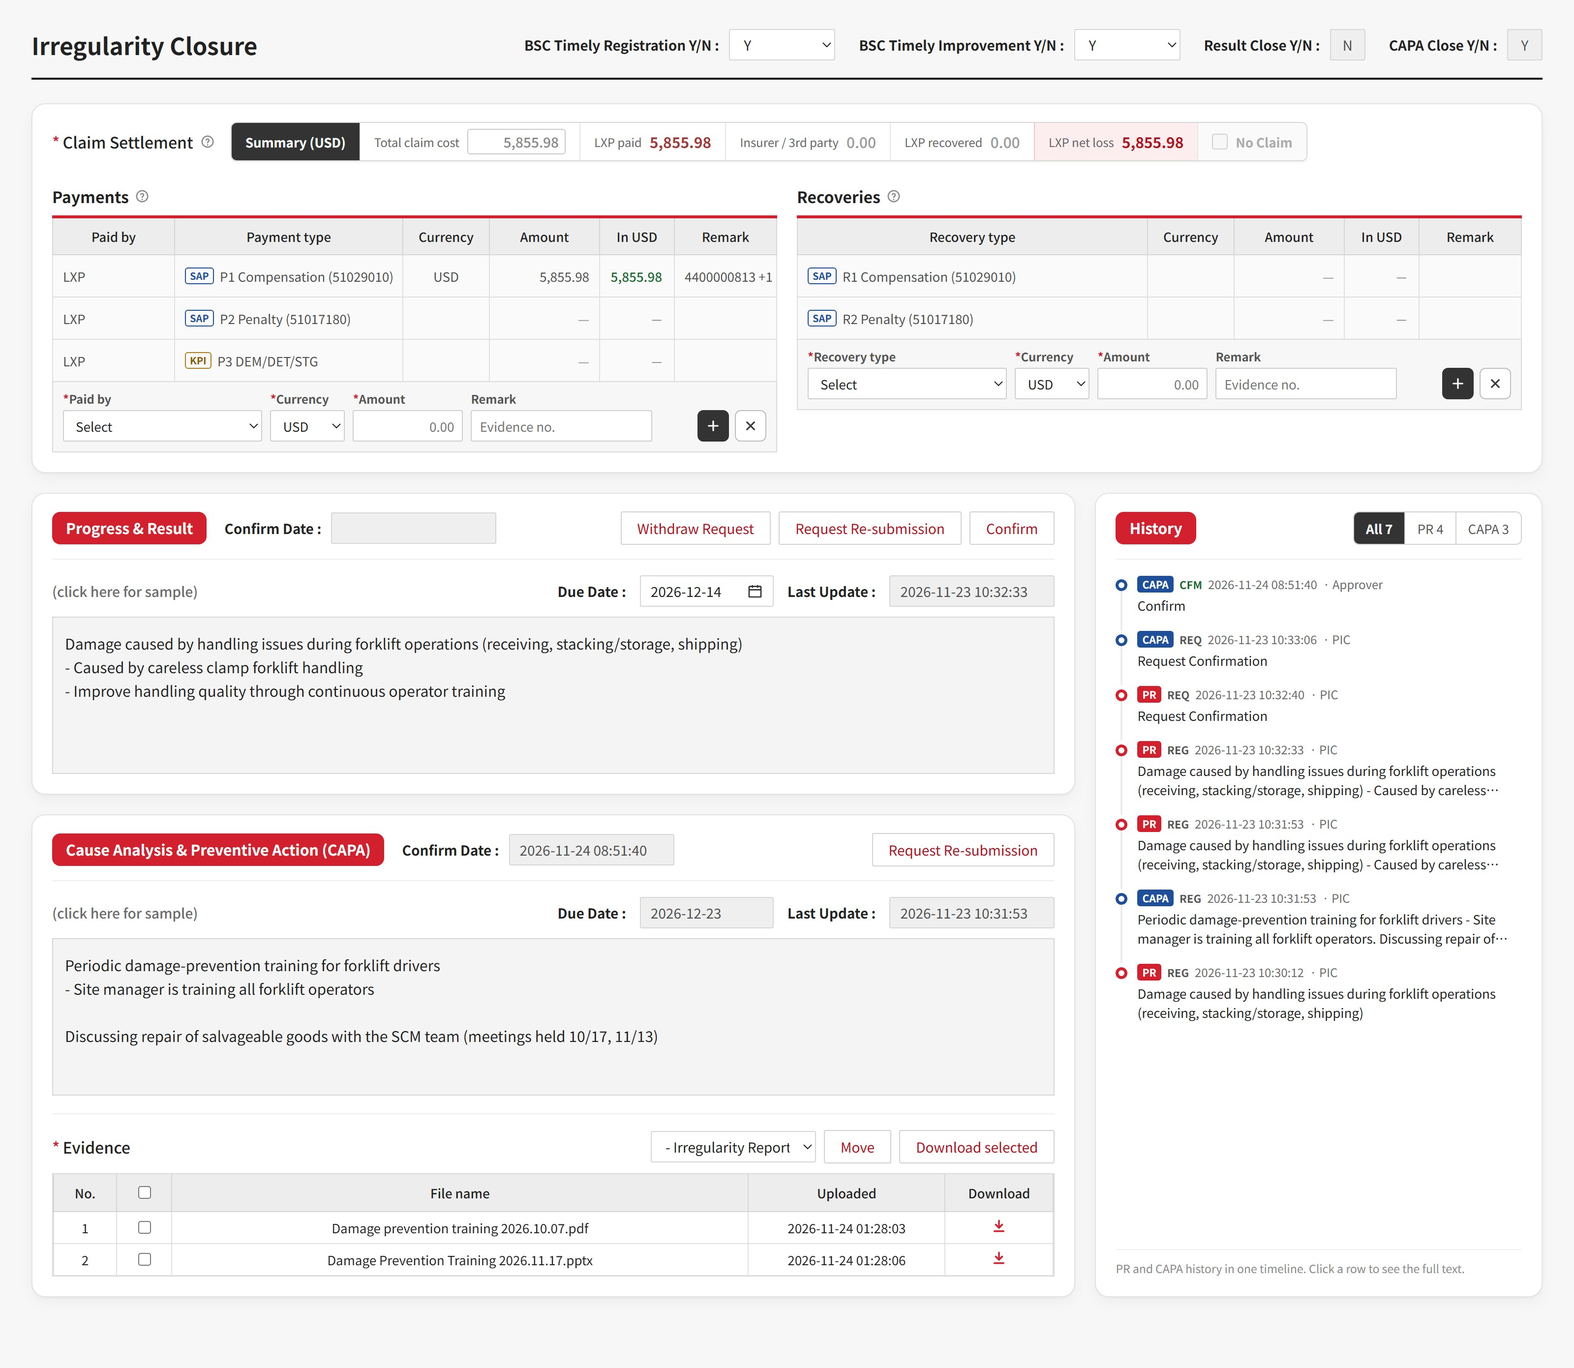
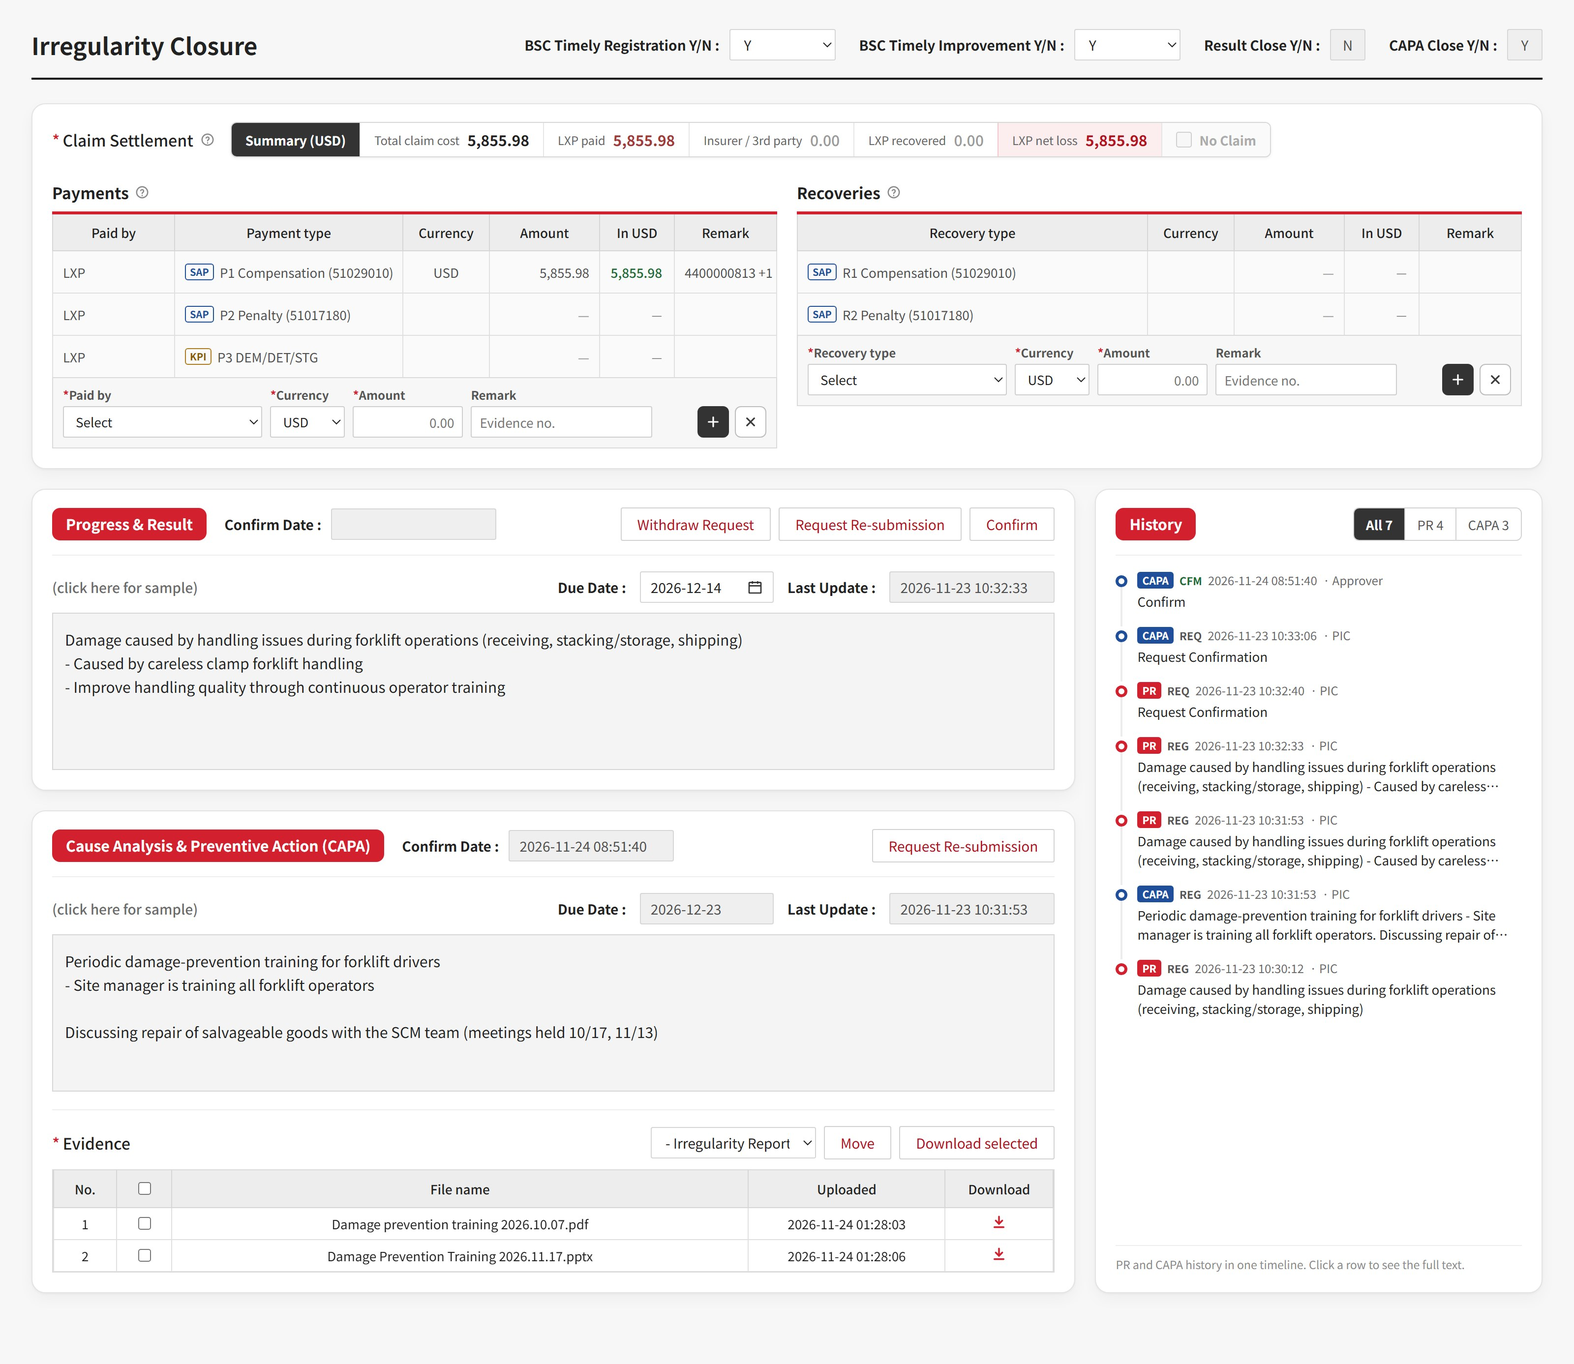
QMS sidebar mockup: total claim cost as plain number, drop P4/P5 hint

diff --git a/share/qms-claim-closure-sidebar.html b/share/qms-claim-closure-sidebar.html
@@ -138,9 +138,9 @@ a{color:#B3121F}a:hover{color:#7E0C16}
 .csw.nc-on .sum.ncs{background:#333;color:#fff}
 .csw.nc-on .grid,.csw.nc-on .cform{opacity:.45}
 .cf > span{white-space:nowrap;overflow:hidden;text-overflow:ellipsis}
-.cf-auto{margin-left:6px;font-weight:500;color:#1F4E9A}
 .cf-undo{display:flex;align-items:center;gap:10px;margin:6px 0 0;font-size:12px;color:#444}.cf-undo[hidden]{display:none}
 .cf-undo button{font:inherit;font-size:12px;font-weight:700;color:#1F4E9A;background:none;border:0;padding:0;cursor:pointer;text-decoration:underline}
+.sum .v.tot{color:#222}
 .cform.editing{background:#FDF1F2;border-color:#EBB5BB}
 .grid tr.ur.flash td{animation:urflash 1.4s ease-out}@keyframes urflash{from{background:#FFF0B3}to{background:#fff}}
 .cf{display:flex;flex-direction:column;gap:3px;min-width:0;font-size:12px;font-weight:700;color:#555}
@@ -168,7 +168,7 @@ a{color:#B3121F}a:hover{color:#7E0C16}
 </head>
 <body>
 <div class="lab-bar"><b>QMS 사고 비용 정산 설계안</b><span>배치 검토용 목업 · 이력 필터만 동작</span><a href="/share/qms-claim">데이터 설계</a><a href="/share/qms-claim-screens">입력 화면 시안</a><a href="/share/qms-claim-closure">Closure 화면 개선안</a><a href="/share/qms-claim-closure-layout">좌우 배치안</a><a href="/share/qms-claim-closure-sidebar" aria-current="page">이력 사이드바안</a><a href="/share/qms-claim-closure-options">배치 제안</a><a href="#en" lang="en">English</a></div>
-<div class="part"><h2 class="big">이력 사이드바안 — 배치 제안 C</h2><p><b>사이드바 레이아웃</b>: 왼쪽 본문은 PR → CAPA → 이행 증빙, 오른쪽 사이드바는 PR · CAPA 이력을 시간순으로 모은 통합 이력 (PR / CAPA 필터). 구역마다 둥근 상자로 나누고, 본문 : 이력 폭은 7 : 3 (6 : 4로 바꿔 볼 수 있음). 이력 상자는 본문 높이에 맞춰 늘어나고 넘치면 안에서 스크롤. 입력 칸과 이력이 나란히 있지 않으니 높이를 맞출 필요가 없고, 이행 증빙이 늘어도 구조가 깨지지 않습니다. <b>Claim Settlement는 전체 폭</b>으로 빼서 지불·회수 표를 한 줄에 놓고, 맨 아래(기본)와 맨 위 중 골라 볼 수 있습니다. <b>지불·회수 표는 조회 전용</b>(USD 환산은 표에서 자동 계산)이고, 표 바로 아래 한 줄 입력칸에 입력하고, 같은 줄 끝 아이콘 버튼(+ 추가 · × 취소, Enter = 추가)으로 넣습니다. 버튼 자리는 고정 폭이라 버튼이 바뀌어도 입력칸이 움직이지 않습니다. 입력한 행을 더블클릭하면 입력칸에 불러오고, 입력칸이 분홍으로 바뀌며 버튼이 ✓ 수정 · − 삭제 · × 취소로 바뀝니다 (× 또는 Esc → 신규). * 필수 표시는 입력칸에만 둡니다. 지불주체만 고르면 지불방법(→ P4 / P5)이 칸 제목 옆에 표시되고, 삭제하면 몇 초간 '되돌리기'가 나옵니다. 회수가 지불보다 크면 '당사 순이익'으로 바뀝니다. <b>No Claim은 요약 줄 맨 끝 칸</b>으로 합쳤습니다 (금액이 있으면 고를 수 없고, 고르면 입력이 잠김). 아래 비고는 없애고 규칙은 ? 툴팁과 입력칸 안내로 옮겼습니다. 지불방법은 지불주체로 정해지므로(당사 P4, 그 밖 P5) 따로 고르지 않고 목록에 함께 보여 줍니다. 요약 금액은 예시 환율로 다시 계산됩니다.</p>
+<div class="part"><h2 class="big">이력 사이드바안 — 배치 제안 C</h2><p><b>사이드바 레이아웃</b>: 왼쪽 본문은 PR → CAPA → 이행 증빙, 오른쪽 사이드바는 PR · CAPA 이력을 시간순으로 모은 통합 이력 (PR / CAPA 필터). 구역마다 둥근 상자로 나누고, 본문 : 이력 폭은 7 : 3 (6 : 4로 바꿔 볼 수 있음). 이력 상자는 본문 높이에 맞춰 늘어나고 넘치면 안에서 스크롤. 입력 칸과 이력이 나란히 있지 않으니 높이를 맞출 필요가 없고, 이행 증빙이 늘어도 구조가 깨지지 않습니다. <b>Claim Settlement는 전체 폭</b>으로 빼서 지불·회수 표를 한 줄에 놓고, 맨 아래(기본)와 맨 위 중 골라 볼 수 있습니다. <b>지불·회수 표는 조회 전용</b>(USD 환산은 표에서 자동 계산)이고, 표 바로 아래 한 줄 입력칸에 입력하고, 같은 줄 끝 아이콘 버튼(+ 추가 · × 취소, Enter = 추가)으로 넣습니다. 버튼 자리는 고정 폭이라 버튼이 바뀌어도 입력칸이 움직이지 않습니다. 입력한 행을 더블클릭하면 입력칸에 불러오고, 입력칸이 분홍으로 바뀌며 버튼이 ✓ 수정 · − 삭제 · × 취소로 바뀝니다 (× 또는 Esc → 신규). * 필수 표시는 입력칸에만 둡니다. 전체 클레임 비용은 계산된 숫자만 보여 줍니다(직접 입력 없음). 삭제하면 몇 초간 '되돌리기'가 나옵니다. 회수가 지불보다 크면 '당사 순이익'으로 바뀝니다. <b>No Claim은 요약 줄 맨 끝 칸</b>으로 합쳤습니다 (금액이 있으면 고를 수 없고, 고르면 입력이 잠김). 아래 비고는 없애고 규칙은 ? 툴팁과 입력칸 안내로 옮겼습니다. 지불방법은 지불주체로 정해지므로(당사 P4, 그 밖 P5) 따로 고르지 않고 목록에 함께 보여 줍니다. 요약 금액은 예시 환율로 다시 계산됩니다.</p>
 <div class="pos" role="group" aria-label="본문과 이력 비율" data-cls="r64"><span>본문 : 이력</span><span class="segb"><button type="button" data-on="0" aria-pressed="true">7 : 3</button><button type="button" data-on="1" aria-pressed="false">6 : 4</button></span></div><div class="pos" role="group" aria-label="Claim Settlement 위치" data-cls="cs-top"><span>Claim Settlement 위치</span><span class="segb"><button type="button" data-pos="bottom" data-on="0" aria-pressed="true">맨 아래</button><button type="button" data-pos="top" data-on="1" aria-pressed="false">맨 위</button></span></div>
 <div class="dl"><a href="/share/files/qms-claim-closure-sidebar.jpg" download><svg width="14" height="14" viewBox="0 0 24 24" fill="none" stroke="currentColor" stroke-width="2" aria-hidden="true"><path d="M12 3v12m0 0-5-5m5 5 5-5M4 19h16"/></svg>JPG (맨 아래)</a><a href="/share/files/qms-claim-closure-sidebar-top.jpg" download><svg width="14" height="14" viewBox="0 0 24 24" fill="none" stroke="currentColor" stroke-width="2" aria-hidden="true"><path d="M12 3v12m0 0-5-5m5 5 5-5M4 19h16"/></svg>JPG (맨 위)</a><a href="/share/files/qms-claim-closure-sidebar-64.jpg" download><svg width="14" height="14" viewBox="0 0 24 24" fill="none" stroke="currentColor" stroke-width="2" aria-hidden="true"><path d="M12 3v12m0 0-5-5m5 5 5-5M4 19h16"/></svg>JPG (6 : 4)</a></div></div>
 <div style="box-sizing: border-box; width: 100%; max-width: 1600px; margin: 0 auto; padding: 28px 32px 56px; font-family: 'Noto Sans KR', 'Malgun Gothic', sans-serif; color: #222; background: #F7F7F7;">
@@ -252,7 +252,7 @@ SCM팀 통한 수리 가능 제품 양품화 협의 (10/17, 11/13 협의 진행)
 <div role="group" aria-label="요약 (USD)" style="display: flex; flex-wrap: wrap; align-items: stretch; background: #fff; border: 1px solid #D8D8D8; border-radius: 6px; overflow: hidden; min-height: 36px; box-sizing: border-box; box-shadow: 0 1px 3px rgba(0,0,0,0.06);">
 <div style="display: flex; align-items: center; gap: 8px; padding: 0 14px; background: #333; color: #fff; font-size: 13px; font-weight: 700; white-space: nowrap;">
 요약 (USD)</div>
-<div class="sum tot"><span class="k">전체 클레임 비용</span><input class="totin isauto" inputmode="decimal" value="5,855.98" placeholder="입력" aria-label="전체 클레임 비용 (USD)"></div>
+<div class="sum tot"><span class="k">전체 클레임 비용</span><span class="v tot">5,855.98</span></div>
 <div class="sum"><span class="k">당사지불</span><span class="v pay">5,855.98</span></div>
 <div class="sum"><span class="k">보험사·제3자 부담</span><span class="v neu zero">0.00</span></div>
 <div class="sum"><span class="k">당사회수</span><span class="v rec zero">0.00</span></div>
@@ -311,7 +311,7 @@ SCM팀 통한 수리 가능 제품 양품화 협의 (10/17, 11/13 협의 진행)
 </tbody>
 </table>
 </div>
-<div class="cform" data-k="pay" role="group" aria-label="지불 입력"><div class="cf-g pay"><label class="cf"><span><span class="req">*</span>지불주체<span class="cf-auto" aria-live="polite"></span></span><select data-f="party"><option value="">선택</option><option value="LXP">당사</option><option value="INS">당사 보험사</option><option value="VEN">협력사</option><option value="CUS">고객사</option></select></label><label class="cf"><span><span class="req">*</span>Currency</span><select data-f="cur"><option>USD</option><option>KRW</option><option>EUR</option></select></label><label class="cf"><span><span class="req">*</span>금액</span><input data-f="amt" inputmode="decimal" placeholder="0.00"></label><label class="cf"><span>Remark</span><input data-f="remark" placeholder="증빙번호 등"></label><div class="cf-b" data-k="pay" role="group" aria-label="지불 입력"><button class="cfi dark cf-add" type="button" aria-label="추가" title="추가"><svg width="16" height="16" viewBox="0 0 24 24" fill="none" stroke="currentColor" stroke-width="2.4" stroke-linecap="round" stroke-linejoin="round" aria-hidden="true"><path d="M12 5v14M5 12h14"/></svg></button><button class="cfi dark cf-upd" type="button" aria-label="수정" title="수정" hidden><svg width="16" height="16" viewBox="0 0 24 24" fill="none" stroke="currentColor" stroke-width="2.4" stroke-linecap="round" stroke-linejoin="round" aria-hidden="true"><path d="M5 12.5l4.5 4.5L19 7.5"/></svg></button><button class="cfi cf-del" type="button" aria-label="삭제" title="삭제" hidden><svg width="16" height="16" viewBox="0 0 24 24" fill="none" stroke="currentColor" stroke-width="2.4" stroke-linecap="round" stroke-linejoin="round" aria-hidden="true"><path d="M5 12h14"/></svg></button><button class="cfi cf-cancel" type="button" aria-label="취소" title="취소"><svg width="16" height="16" viewBox="0 0 24 24" fill="none" stroke="currentColor" stroke-width="2.4" stroke-linecap="round" stroke-linejoin="round" aria-hidden="true"><path d="M6.5 6.5l11 11M17.5 6.5l-11 11"/></svg></button></div></div><p class="cf-err" role="alert" hidden></p><p class="cf-undo" role="status" hidden><span>1건 삭제됨</span><button type="button">되돌리기</button></p></div>
+<div class="cform" data-k="pay" role="group" aria-label="지불 입력"><div class="cf-g pay"><label class="cf"><span><span class="req">*</span>지불주체</span><select data-f="party"><option value="">선택</option><option value="LXP">당사</option><option value="INS">당사 보험사</option><option value="VEN">협력사</option><option value="CUS">고객사</option></select></label><label class="cf"><span><span class="req">*</span>Currency</span><select data-f="cur"><option>USD</option><option>KRW</option><option>EUR</option></select></label><label class="cf"><span><span class="req">*</span>금액</span><input data-f="amt" inputmode="decimal" placeholder="0.00"></label><label class="cf"><span>Remark</span><input data-f="remark" placeholder="증빙번호 등"></label><div class="cf-b" data-k="pay" role="group" aria-label="지불 입력"><button class="cfi dark cf-add" type="button" aria-label="추가" title="추가"><svg width="16" height="16" viewBox="0 0 24 24" fill="none" stroke="currentColor" stroke-width="2.4" stroke-linecap="round" stroke-linejoin="round" aria-hidden="true"><path d="M12 5v14M5 12h14"/></svg></button><button class="cfi dark cf-upd" type="button" aria-label="수정" title="수정" hidden><svg width="16" height="16" viewBox="0 0 24 24" fill="none" stroke="currentColor" stroke-width="2.4" stroke-linecap="round" stroke-linejoin="round" aria-hidden="true"><path d="M5 12.5l4.5 4.5L19 7.5"/></svg></button><button class="cfi cf-del" type="button" aria-label="삭제" title="삭제" hidden><svg width="16" height="16" viewBox="0 0 24 24" fill="none" stroke="currentColor" stroke-width="2.4" stroke-linecap="round" stroke-linejoin="round" aria-hidden="true"><path d="M5 12h14"/></svg></button><button class="cfi cf-cancel" type="button" aria-label="취소" title="취소"><svg width="16" height="16" viewBox="0 0 24 24" fill="none" stroke="currentColor" stroke-width="2.4" stroke-linecap="round" stroke-linejoin="round" aria-hidden="true"><path d="M6.5 6.5l11 11M17.5 6.5l-11 11"/></svg></button></div></div><p class="cf-err" role="alert" hidden></p><p class="cf-undo" role="status" hidden><span>1건 삭제됨</span><button type="button">되돌리기</button></p></div>
 </div>
 
 <div style="min-width: 0;">
@@ -440,7 +440,7 @@ Discussing repair of salvageable goods with the SCM team (meetings held 10/17, 1
 <div role="group" aria-label="Summary (USD)" style="display: flex; flex-wrap: wrap; align-items: stretch; background: #fff; border: 1px solid #D8D8D8; border-radius: 6px; overflow: hidden; min-height: 36px; box-sizing: border-box; box-shadow: 0 1px 3px rgba(0,0,0,0.06);">
 <div style="display: flex; align-items: center; gap: 8px; padding: 0 14px; background: #333; color: #fff; font-size: 13px; font-weight: 700; white-space: nowrap;">
 Summary (USD)</div>
-<div class="sum tot"><span class="k">Total claim cost</span><input class="totin isauto" inputmode="decimal" value="5,855.98" placeholder="Enter" aria-label="Total claim cost (USD)"></div>
+<div class="sum tot"><span class="k">Total claim cost</span><span class="v tot">5,855.98</span></div>
 <div class="sum"><span class="k">LXP paid</span><span class="v pay">5,855.98</span></div>
 <div class="sum"><span class="k">Insurer / 3rd party</span><span class="v neu zero">0.00</span></div>
 <div class="sum"><span class="k">LXP recovered</span><span class="v rec zero">0.00</span></div>
@@ -499,7 +499,7 @@ Summary (USD)</div>
 </tbody>
 </table>
 </div>
-<div class="cform" data-k="pay" role="group" aria-label="Payment entry"><div class="cf-g pay"><label class="cf"><span><span class="req">*</span>Paid by<span class="cf-auto" aria-live="polite"></span></span><select data-f="party"><option value="">Select</option><option value="LXP">LXP</option><option value="INS">LXP insurer</option><option value="VEN">Vendor</option><option value="CUS">Customer</option></select></label><label class="cf"><span><span class="req">*</span>Currency</span><select data-f="cur"><option>USD</option><option>KRW</option><option>EUR</option></select></label><label class="cf"><span><span class="req">*</span>Amount</span><input data-f="amt" inputmode="decimal" placeholder="0.00"></label><label class="cf"><span>Remark</span><input data-f="remark" placeholder="Evidence no."></label><div class="cf-b" data-k="pay" role="group" aria-label="Payment entry"><button class="cfi dark cf-add" type="button" aria-label="Add" title="Add"><svg width="16" height="16" viewBox="0 0 24 24" fill="none" stroke="currentColor" stroke-width="2.4" stroke-linecap="round" stroke-linejoin="round" aria-hidden="true"><path d="M12 5v14M5 12h14"/></svg></button><button class="cfi dark cf-upd" type="button" aria-label="Update" title="Update" hidden><svg width="16" height="16" viewBox="0 0 24 24" fill="none" stroke="currentColor" stroke-width="2.4" stroke-linecap="round" stroke-linejoin="round" aria-hidden="true"><path d="M5 12.5l4.5 4.5L19 7.5"/></svg></button><button class="cfi cf-del" type="button" aria-label="Delete" title="Delete" hidden><svg width="16" height="16" viewBox="0 0 24 24" fill="none" stroke="currentColor" stroke-width="2.4" stroke-linecap="round" stroke-linejoin="round" aria-hidden="true"><path d="M5 12h14"/></svg></button><button class="cfi cf-cancel" type="button" aria-label="Cancel" title="Cancel"><svg width="16" height="16" viewBox="0 0 24 24" fill="none" stroke="currentColor" stroke-width="2.4" stroke-linecap="round" stroke-linejoin="round" aria-hidden="true"><path d="M6.5 6.5l11 11M17.5 6.5l-11 11"/></svg></button></div></div><p class="cf-err" role="alert" hidden></p><p class="cf-undo" role="status" hidden><span>Row deleted</span><button type="button">Undo</button></p></div>
+<div class="cform" data-k="pay" role="group" aria-label="Payment entry"><div class="cf-g pay"><label class="cf"><span><span class="req">*</span>Paid by</span><select data-f="party"><option value="">Select</option><option value="LXP">LXP</option><option value="INS">LXP insurer</option><option value="VEN">Vendor</option><option value="CUS">Customer</option></select></label><label class="cf"><span><span class="req">*</span>Currency</span><select data-f="cur"><option>USD</option><option>KRW</option><option>EUR</option></select></label><label class="cf"><span><span class="req">*</span>Amount</span><input data-f="amt" inputmode="decimal" placeholder="0.00"></label><label class="cf"><span>Remark</span><input data-f="remark" placeholder="Evidence no."></label><div class="cf-b" data-k="pay" role="group" aria-label="Payment entry"><button class="cfi dark cf-add" type="button" aria-label="Add" title="Add"><svg width="16" height="16" viewBox="0 0 24 24" fill="none" stroke="currentColor" stroke-width="2.4" stroke-linecap="round" stroke-linejoin="round" aria-hidden="true"><path d="M12 5v14M5 12h14"/></svg></button><button class="cfi dark cf-upd" type="button" aria-label="Update" title="Update" hidden><svg width="16" height="16" viewBox="0 0 24 24" fill="none" stroke="currentColor" stroke-width="2.4" stroke-linecap="round" stroke-linejoin="round" aria-hidden="true"><path d="M5 12.5l4.5 4.5L19 7.5"/></svg></button><button class="cfi cf-del" type="button" aria-label="Delete" title="Delete" hidden><svg width="16" height="16" viewBox="0 0 24 24" fill="none" stroke="currentColor" stroke-width="2.4" stroke-linecap="round" stroke-linejoin="round" aria-hidden="true"><path d="M5 12h14"/></svg></button><button class="cfi cf-cancel" type="button" aria-label="Cancel" title="Cancel"><svg width="16" height="16" viewBox="0 0 24 24" fill="none" stroke="currentColor" stroke-width="2.4" stroke-linecap="round" stroke-linejoin="round" aria-hidden="true"><path d="M6.5 6.5l11 11M17.5 6.5l-11 11"/></svg></button></div></div><p class="cf-err" role="alert" hidden></p><p class="cf-undo" role="status" hidden><span>Row deleted</span><button type="button">Undo</button></p></div>
 </div>
 
 <div style="min-width: 0;">
@@ -586,14 +586,14 @@ Summary (USD)</div>
       var nd = cs.querySelector('[data-net]'), net = Math.round((paid - rec) * 100) / 100;
       if (nd) { nd.className = 'sum' + (net > 0 ? ' loss' : net < 0 ? ' gain' : ''); nd.querySelector('.k').textContent = net < 0 ? L.gainK : L.lossK;
         var nv = nd.querySelector('.v'); nv.textContent = fmt(Math.abs(net)); nv.classList.toggle('zero', !net); }
-      var t = cs.querySelector('.totin'); if (t && t.classList.contains('isauto')) t.value = fmt(paid + ins);
+      put('.sum .v.tot', paid + ins);
       if (nc) { var cost = paid + ins + rec > 0; nc.disabled = !nc.checked && cost; ncl.classList.toggle('off', nc.disabled); ncl.title = nc.disabled ? L.ncOff : ''; }
       return paid + ins + rec;
     }
     var nc = cs.querySelector('.sum.ncs input'), ncl = nc && nc.parentElement;
     function setNC(on) {
       nc.checked = on; cs.classList.toggle('nc-on', on);
-      cs.querySelectorAll('.cform select, .cform input, .cform button, .totin').forEach(function (e) { e.disabled = on; });
+      cs.querySelectorAll('.cform select, .cform input, .cform button').forEach(function (e) { e.disabled = on; });
       recalc();
     }
     if (nc) nc.addEventListener('change', function () { if (nc.checked && recalc() > 0) { nc.checked = false; recalc(); return; } setNC(nc.checked); });
@@ -606,8 +606,8 @@ Summary (USD)</div>
       var sel = null;
       function typeVal() { return party ? (party.value ? (party.value === 'LXP' ? 'P4' : 'P5') : '') : type.value; }
       function needV() { var t = typeVal(); return t === 'P4' || t === 'R4'; }
-      var auto = f.querySelector('.cf-auto'), undoBar = f.querySelector('.cf-undo'), undoT = null, gone = null;
-      function sync() { if (auto) { var tv = typeVal(); auto.textContent = tv ? '→ ' + tv : ''; auto.title = tv ? L.types[tv] : ''; } remark.placeholder = needV() ? L.vph : L.ph; remark.classList.toggle('need', needV()); }
+      var undoBar = f.querySelector('.cf-undo'), undoT = null, gone = null;
+      function sync() { remark.placeholder = needV() ? L.vph : L.ph; remark.classList.toggle('need', needV()); }
       function state() { add.hidden = !!sel; upd.hidden = del.hidden = !sel; f.classList.toggle('editing', !!sel); }
       function flash(tr) { tr.classList.remove('flash'); void tr.offsetWidth; tr.classList.add('flash'); }
       function clear() { f.querySelectorAll('.bad').forEach(function (e) { e.classList.remove('bad'); }); err.hidden = true; }
